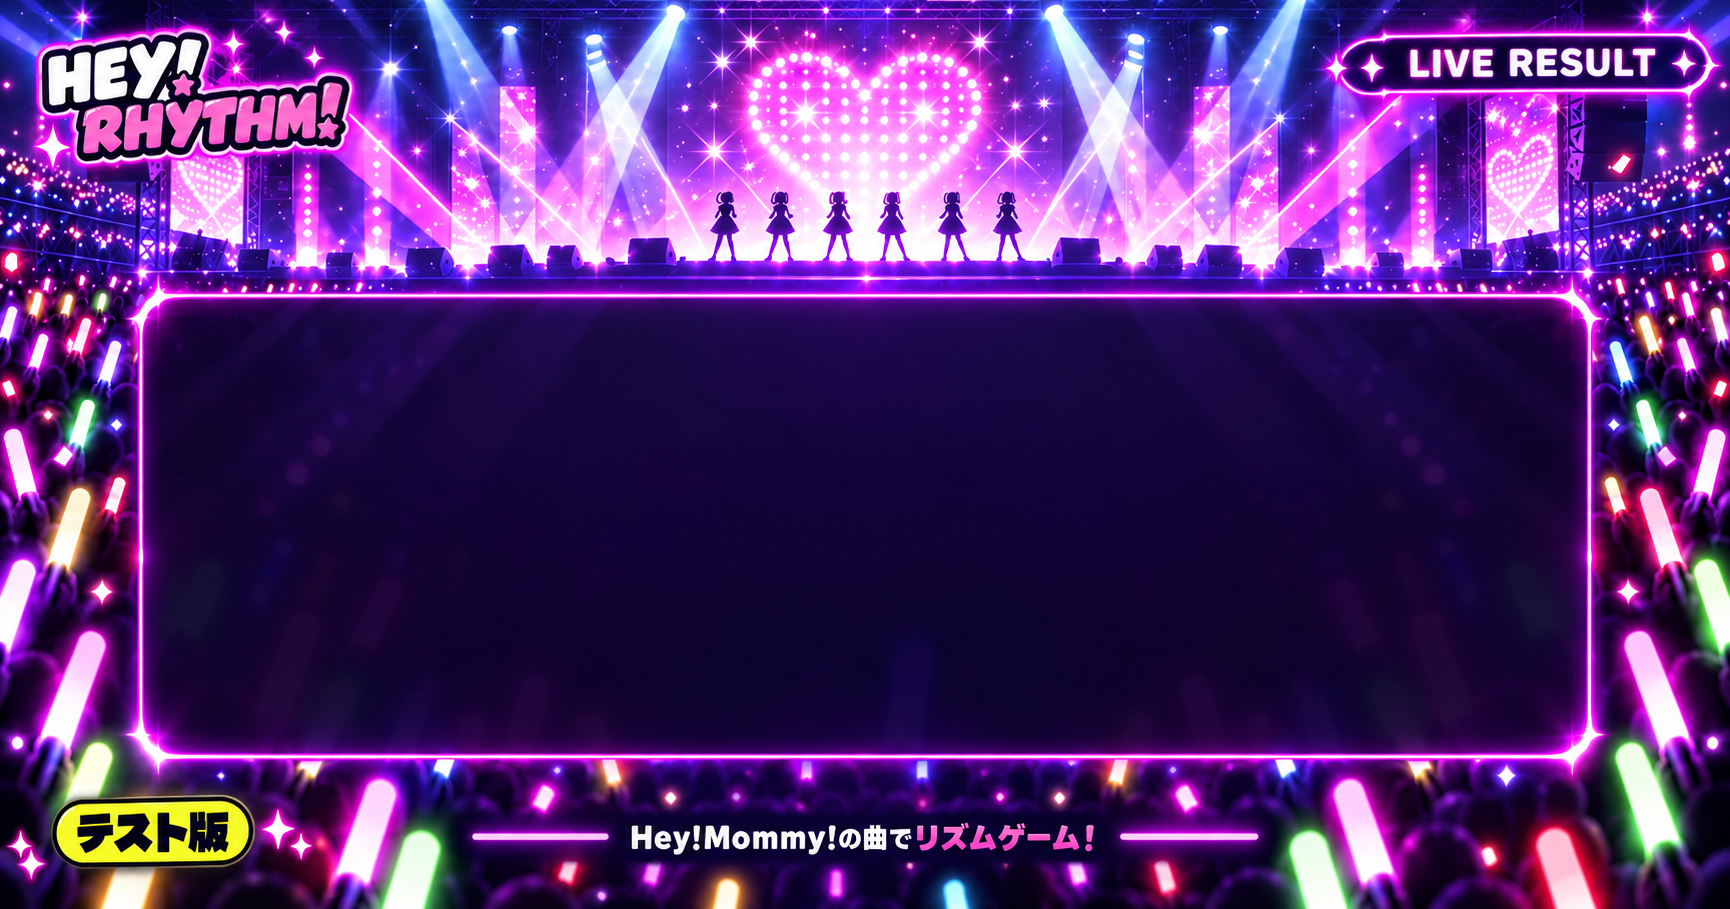
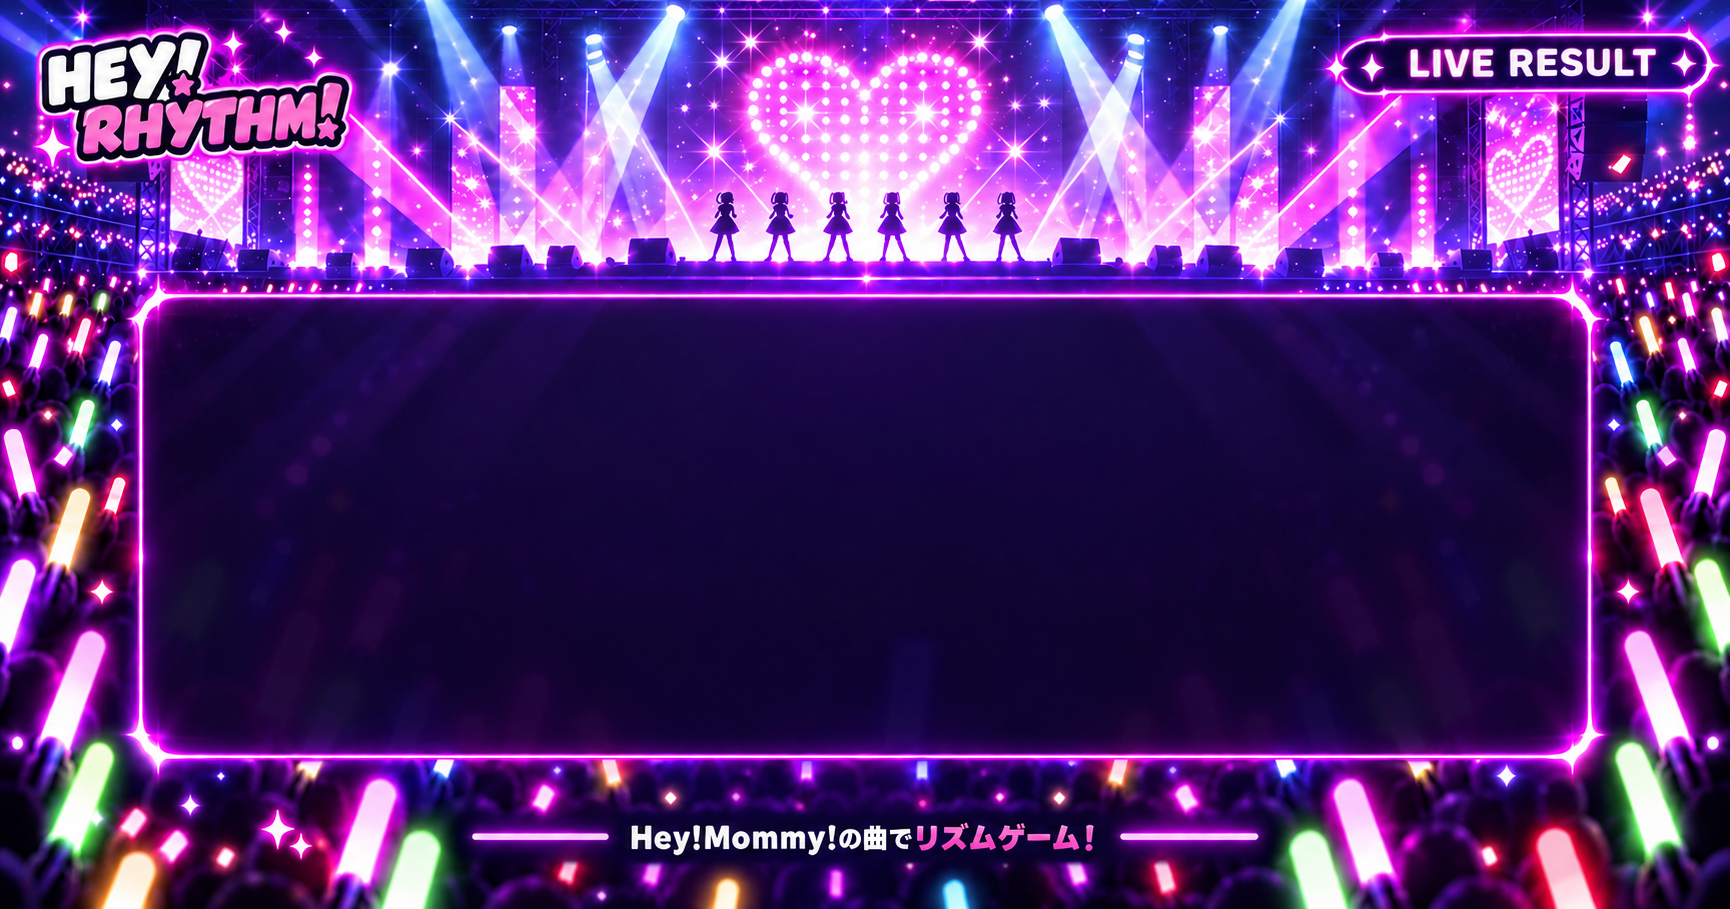
Remove development release labels from the site and social artwork

diff --git a/game.html b/game.html
@@ -8,24 +8,24 @@
     <meta name="viewport" content="width=device-width, initial-scale=1.0, viewport-fit=cover" />
     <meta name="referrer" content="strict-origin-when-cross-origin" />
     <meta name="theme-color" content="#11121e" />
-    <meta name="description" content="Hey!Mommy!の曲でリズムゲーム！ブラウザで遊べる非公式ファンメイドのテスト版です。" />
+    <meta name="description" content="Hey!Mommy!の曲でリズムゲーム！ブラウザで遊べる非公式ファンメイドのリズムゲームです。" />
     <link rel="canonical" href="https://hey.jpn.org/rhythm/game.html" />
     <meta property="og:type" content="website" />
     <meta property="og:site_name" content="HEY! RHYTHM!" />
-    <meta property="og:title" content="HEY! RHYTHM!｜テスト版" />
-    <meta property="og:description" content="Hey!Mommy!の曲でリズムゲーム！ブラウザで遊べる非公式ファンメイドのテスト版です。" />
+    <meta property="og:title" content="HEY! RHYTHM!" />
+    <meta property="og:description" content="Hey!Mommy!の曲でリズムゲーム！ブラウザで遊べる非公式ファンメイドのリズムゲームです。" />
     <meta property="og:url" content="https://hey.jpn.org/rhythm/game.html" />
-    <meta property="og:image" content="https://hey.jpn.org/rhythm/ogp-test-v1.png" />
+    <meta property="og:image" content="https://hey.jpn.org/rhythm/ogp-v2.png" />
     <meta property="og:image:type" content="image/png" />
     <meta property="og:image:width" content="1200" />
     <meta property="og:image:height" content="630" />
-    <meta property="og:image:alt" content="HEY! RHYTHM! テスト版。Hey!Mommy!の曲でリズムゲーム！と表示した、ペンライトが光るライブ会場。" />
+    <meta property="og:image:alt" content="HEY! RHYTHM!。Hey!Mommy!の曲でリズムゲーム！と表示した、ペンライトが光るライブ会場。" />
     <meta property="og:locale" content="ja_JP" />
     <meta name="twitter:card" content="summary_large_image" />
-    <meta name="twitter:title" content="HEY! RHYTHM!｜テスト版" />
-    <meta name="twitter:description" content="Hey!Mommy!の曲でリズムゲーム！ブラウザで遊べる非公式ファンメイドのテスト版です。" />
-    <meta name="twitter:image" content="https://hey.jpn.org/rhythm/ogp-test-v1.png" />
-    <meta name="twitter:image:alt" content="HEY! RHYTHM! テスト版。Hey!Mommy!の曲でリズムゲーム！と表示した、ペンライトが光るライブ会場。" />
+    <meta name="twitter:title" content="HEY! RHYTHM!" />
+    <meta name="twitter:description" content="Hey!Mommy!の曲でリズムゲーム！ブラウザで遊べる非公式ファンメイドのリズムゲームです。" />
+    <meta name="twitter:image" content="https://hey.jpn.org/rhythm/ogp-v2.png" />
+    <meta name="twitter:image:alt" content="HEY! RHYTHM!。Hey!Mommy!の曲でリズムゲーム！と表示した、ペンライトが光るライブ会場。" />
     <title>HEY! RHYTHM! — GAME</title>
   </head>
   <body class="game-page">
@@ -55,7 +55,7 @@
               <details class="playback-details"><summary>詳細 <span aria-hidden="true">⌄</span></summary><div class="playback-popover">
                 <div class="playback-info"><span class="status-dot" id="status-dot"></span><p id="player-status" role="status">YouTubeプレーヤーを読み込み中…</p><a href="https://www.youtube.com/watch?v=pJDfWpZ7CI4" target="_blank" rel="noopener">YouTube ↗</a></div>
                 <p id="chart-info">譜面を読み込み中…</p><p id="game-notice" class="game-notice" role="status">届くハートのバーを、同じ色のペンライトで受け止めよう。</p><button id="show-result" class="text-button" hidden>プレイ結果を見る</button>
-                <footer><span>FANMADE · UNOFFICIAL</span><p>Hey!Mommy! 非公式ファンメイド試作版<br />音声・映像はYouTube公式プレーヤーで再生します。</p></footer>
+                <footer><span>FANMADE · UNOFFICIAL</span><p>Hey!Mommy! 非公式ファンメイド<br />音声・映像はYouTube公式プレーヤーで再生します。</p></footer>
               </div></details>
             </div>
           </aside>

diff --git a/index.html b/index.html
@@ -7,24 +7,24 @@
   <link href="https://fonts.googleapis.com/css2?family=Dela+Gothic+One&amp;family=RocknRoll+One&amp;display=swap" rel="stylesheet" />
   <meta name="viewport" content="width=device-width, initial-scale=1.0, viewport-fit=cover" />
   <meta name="theme-color" content="#11121e" />
-  <meta name="description" content="Hey!Mommy!の曲でリズムゲーム！ブラウザで遊べる非公式ファンメイドのテスト版です。" />
+  <meta name="description" content="Hey!Mommy!の曲でリズムゲーム！ブラウザで遊べる非公式ファンメイドのリズムゲームです。" />
   <link rel="canonical" href="https://hey.jpn.org/rhythm/" />
   <meta property="og:type" content="website" />
   <meta property="og:site_name" content="HEY! RHYTHM!" />
-  <meta property="og:title" content="HEY! RHYTHM!｜テスト版" />
-  <meta property="og:description" content="Hey!Mommy!の曲でリズムゲーム！ブラウザで遊べる非公式ファンメイドのテスト版です。" />
+  <meta property="og:title" content="HEY! RHYTHM!" />
+  <meta property="og:description" content="Hey!Mommy!の曲でリズムゲーム！ブラウザで遊べる非公式ファンメイドのリズムゲームです。" />
   <meta property="og:url" content="https://hey.jpn.org/rhythm/" />
-  <meta property="og:image" content="https://hey.jpn.org/rhythm/ogp-test-v1.png" />
+  <meta property="og:image" content="https://hey.jpn.org/rhythm/ogp-v2.png" />
   <meta property="og:image:type" content="image/png" />
   <meta property="og:image:width" content="1200" />
   <meta property="og:image:height" content="630" />
-  <meta property="og:image:alt" content="HEY! RHYTHM! テスト版。Hey!Mommy!の曲でリズムゲーム！と表示した、ペンライトが光るライブ会場。" />
+  <meta property="og:image:alt" content="HEY! RHYTHM!。Hey!Mommy!の曲でリズムゲーム！と表示した、ペンライトが光るライブ会場。" />
   <meta property="og:locale" content="ja_JP" />
   <meta name="twitter:card" content="summary_large_image" />
-  <meta name="twitter:title" content="HEY! RHYTHM!｜テスト版" />
-  <meta name="twitter:description" content="Hey!Mommy!の曲でリズムゲーム！ブラウザで遊べる非公式ファンメイドのテスト版です。" />
-  <meta name="twitter:image" content="https://hey.jpn.org/rhythm/ogp-test-v1.png" />
-  <meta name="twitter:image:alt" content="HEY! RHYTHM! テスト版。Hey!Mommy!の曲でリズムゲーム！と表示した、ペンライトが光るライブ会場。" />
+  <meta name="twitter:title" content="HEY! RHYTHM!" />
+  <meta name="twitter:description" content="Hey!Mommy!の曲でリズムゲーム！ブラウザで遊べる非公式ファンメイドのリズムゲームです。" />
+  <meta name="twitter:image" content="https://hey.jpn.org/rhythm/ogp-v2.png" />
+  <meta name="twitter:image:alt" content="HEY! RHYTHM!。Hey!Mommy!の曲でリズムゲーム！と表示した、ペンライトが光るライブ会場。" />
   <title>曲を選ぶ — HEY! RHYTHM!</title>
 </head>
 <body class="menu-page">
@@ -39,7 +39,7 @@
       <p class="audio-guide"><strong>本体スピーカー・有線イヤホン推奨。</strong>Bluetoothなどの無線イヤホンは、タップ音が遅れて聞こえることがあるため非推奨です。</p>
       <section id="song-list" class="song-list" aria-label="楽曲一覧"></section>
       <p id="song-empty" class="empty-library" hidden>一致する曲がありません。検索する言葉を変えてみてください。</p>
-      <footer><span>FANMADE · UNOFFICIAL<br /><a href="./admin.html">管理者ログイン</a></span><p>Hey!Mommy! 非公式ファンメイド試作版<br />音声・映像はプレイ開始後にYouTube公式プレーヤーで再生します。</p></footer>
+      <footer><span>FANMADE · UNOFFICIAL<br /><a href="./admin.html">管理者ログイン</a></span><p>Hey!Mommy! 非公式ファンメイド<br />音声・映像はプレイ開始後にYouTube公式プレーヤーで再生します。</p></footer>
     </main>
   </div>
   <dialog id="tutorial" class="tutorial-dialog" aria-labelledby="tutorial-title" aria-describedby="tutorial-description">

diff --git a/src/menu.ts b/src/menu.ts
@@ -54,7 +54,7 @@ function render(): void {
     for (const color of LANE_COLORS) { const lane = node('i', ''); lane.style.setProperty('--color', color); lanes.append(lane); }
     artwork.append(lanes);
     const body = node('div', 'song-card-body');
-    body.append(node('p', 'song-artist', song.artist), node('h2', 'song-name', song.title), node('p', 'song-meta', bundled ? `6 LANES · ${__ADMIN__ ? `${song.chartId?.toUpperCase()} · ` : ''}${tempoLabel(bundled)} BPM · ${playableNotes(bundled.notes).length} NOTES` : __ADMIN__ ? `6 LANES · テスト譜面 ${song.bpm} BPM` : '譜面の準備中'));
+    body.append(node('p', 'song-artist', song.artist), node('h2', 'song-name', song.title), node('p', 'song-meta', bundled ? `6 LANES · ${__ADMIN__ ? `${song.chartId?.toUpperCase()} · ` : ''}${tempoLabel(bundled)} BPM · ${playableNotes(bundled.notes).length} NOTES` : __ADMIN__ ? `6 LANES · 練習譜面 ${song.bpm} BPM` : '譜面の準備中'));
     const levelLabel=node('label','difficulty-choice'), level=node('select','song-difficulty');level.id=`difficulty-${song.id}`;
     level.setAttribute('aria-label',`${song.title}の難易度`);
     for(const item of DIFFICULTIES){
@@ -69,7 +69,7 @@ function render(): void {
     if(!__ADMIN__)actions.classList.add('player-difficulty-actions');
     actions.append(levelLabel);
     if (bundled || __ADMIN__) {
-      const play = node('a', 'song-play', __ADMIN__ ? bundled ? '収録譜面で遊ぶ' : 'テスト譜面で遊ぶ' : 'プレイ');
+      const play = node('a', 'song-play', __ADMIN__ ? bundled ? '収録譜面で遊ぶ' : '練習譜面で遊ぶ' : 'プレイ');
       play.href = __ADMIN__ ? songUrl(song, 'game', bundled ? 'bundled' : 'test',difficulty) : songUrl(song, 'game',false,difficulty);
       actions.append(play);
     } else actions.append(node('span', 'song-unavailable', '準備中'));
@@ -83,7 +83,7 @@ function render(): void {
       });
       const edit = node('a', 'song-edit', '譜面を編集 →'); edit.href = songUrl(song, 'editor',false,difficulty);
       actions.append(custom, edit);
-      if (bundled) { const practice = node('a', 'song-practice', 'テスト譜面で遊ぶ'); practice.href = songUrl(song, 'game', 'test',difficulty); actions.append(practice); }
+      if (bundled) { const practice = node('a', 'song-practice', '練習譜面で遊ぶ'); practice.href = songUrl(song, 'game', 'test',difficulty); actions.append(practice); }
     }
     body.append(actions); card.append(artwork, body); list.append(card);
   });

diff --git a/tests/ranking/share.spec.ts b/tests/ranking/share.spec.ts
@@ -4,8 +4,10 @@ test('the shared result has static crawler metadata, an actual score PNG and a p
   const query=new URLSearchParams({song:'biscuit-case',difficulty:'normal',v:'4',score:'1160000',base:'960000',combo:'328',skipped:'0'});
   await page.goto(`./share.php?${query}`);
   await expect(page.locator('h1')).toHaveText('最高なLIVE！');
+  expect(await page.locator('body').innerText()).not.toMatch(/テスト版|試作|プロトタイプ/);
   await expect(page.getByRole('link',{name:'この曲で遊ぶ'})).toHaveAttribute('href','./game.html?song=biscuit-case&difficulty=normal');
-  expect(await page.locator('meta[property="og:image"]').getAttribute('content')).toContain('https://hey.jpn.org/rhythm/share-image.php?');
+  const imageUrl=new URL((await page.locator('meta[property="og:image"]').getAttribute('content'))!);
+  expect(imageUrl.searchParams.get('art')).toBe('2');
   expect(await page.locator('img').evaluate((img:HTMLImageElement)=>({loaded:img.complete,width:img.naturalWidth,height:img.naturalHeight}))).toEqual({loaded:true,width:1200,height:630});
   expect(await page.evaluate(()=>document.documentElement.scrollWidth<=innerWidth)).toBe(true);
   if(test.info().project.name==='mobile-touch')await page.screenshot({path:test.info().outputPath('result-share.png')});

diff --git a/tests/sakura/deployment.spec.ts b/tests/sakura/deployment.spec.ts
@@ -44,10 +44,11 @@ test('static metadata and OGP image use the Sakura address without requiring Jav
     const html=await response.text(),canonical=file==='index.html'?'https://hey.jpn.org/rhythm/':`https://hey.jpn.org/rhythm/${file}`;
     expect(html).toContain(`<link rel="canonical" href="${canonical}"`);
     expect(html).toContain(`<meta property="og:url" content="${canonical}"`);
-    expect(html).toContain('https://hey.jpn.org/rhythm/ogp-test-v1.png');
+    expect(html).toContain('https://hey.jpn.org/rhythm/ogp-v2.png');
+    expect(html).not.toMatch(/テスト版|試作|プロトタイプ/);
     expect(html).not.toContain('tkisland.github.io');expect(html).not.toContain('/src/');
   }
-  const image=await request.get('ogp-test-v1.png');expect(image.status()).toBe(200);
+  const image=await request.get('ogp-v2.png');expect(image.status()).toBe(200);
   expect(image.headers()['content-type']).toContain('image/png');
   // Local-only editing pages must not be included in the FTP upload.
   expect((await request.get('editor.html')).status()).toBe(404);

diff --git a/tests/browser/bundled-chart.spec.ts b/tests/browser/bundled-chart.spec.ts
@@ -40,7 +40,7 @@ test('bundled, practice and saved charts coexist without changing existing draft
   await page.goto('/game.html'); await expect(page.locator('#restart')).toBeEnabled();
   await expect(page.locator('#chart-source')).toHaveValue('bundled'); await page.locator('#settings-toggle').click();
   await expect(page.locator('#bpm')).toBeDisabled(); await expect(page.locator('#start-time')).toBeDisabled();
-  await page.locator('#chart-source').selectOption('test'); await expect(page.locator('#chart-info')).toContainText('TEST CHART · 150 BPM · 14.0秒');
+  await page.locator('#chart-source').selectOption('test'); await expect(page.locator('#chart-info')).toContainText('PRACTICE CHART · 150 BPM · 14.0秒');
   await page.reload(); await expect(page.locator('#chart-source')).toHaveValue('test');
   await page.locator('#settings-toggle').click(); await page.locator('#chart-source').selectOption('custom');
   await expect(page.locator('#chart-info')).toContainText('EDITOR CHART · 120 BPM · 10.0秒〜 · 1 NOTES');

diff --git a/tests/public/player-only.spec.ts b/tests/public/player-only.spec.ts
@@ -21,7 +21,7 @@ test('public selection offers only the published chart and loads no video', asyn
   await expect(page.locator('.song-card').getByText('SUPER MOMMY GIRLS',{exact:true})).toHaveCount(1);
   expect((await page.locator('[data-song="super-mommy-girls"]').boundingBox())!.height).toBeLessThan(180);
   await expect(page.locator('.song-edit,.song-saved,.song-practice,.saved-summary,.admin-notice')).toHaveCount(0);
-  expect(await page.locator('body').innerText()).not.toMatch(/エディター|編集|保存譜面|テスト譜面|SMG00[234]/);
+  expect(await page.locator('body').innerText()).not.toMatch(/エディター|編集|保存譜面|練習譜面|SMG00[234]/);
   expect(requests).toEqual([]);
   await page.locator('#song-search').fill('missing'); await expect(page.locator('#song-empty')).toBeVisible();
   await page.locator('#song-search').fill('mommy'); await expect(page.locator('.song-card')).toHaveCount(2);

diff --git a/src/main.ts b/src/main.ts
@@ -355,7 +355,7 @@ function showError(message: string): void {
   element<HTMLButtonElement>('play-start').disabled = true;
 }
 function updateChartInfo(): void {
-  element('chart-info').textContent = __ADMIN__ ? `${source === 'custom' ? 'EDITOR CHART' : source === 'bundled' ? 'BUNDLED CHART' : 'TEST CHART'} · ${tempoLabel(engine.chart)} BPM · ${engine.chart.startTime.toFixed(source === 'bundled' ? 2 : 1)}秒〜 · ${engine.notes.length} NOTES` : `${tempoLabel(engine.chart)} BPM · ${engine.notes.length} NOTES`;
+  element('chart-info').textContent = __ADMIN__ ? `${source === 'custom' ? 'EDITOR CHART' : source === 'bundled' ? 'BUNDLED CHART' : 'PRACTICE CHART'} · ${tempoLabel(engine.chart)} BPM · ${engine.chart.startTime.toFixed(source === 'bundled' ? 2 : 1)}秒〜 · ${engine.notes.length} NOTES` : `${tempoLabel(engine.chart)} BPM · ${engine.notes.length} NOTES`;
 }
 
 const disposePlayer = createYouTubePlayer({

diff --git a/tests/result-share.test.ts b/tests/result-share.test.ts
@@ -8,7 +8,7 @@ it('shares the selected song, difficulty and formatted result with a public Saku
   expect(url.searchParams.get('text')).toBe('レスが届いたLIVE！\nビスケットケース / むずかしい\nSCORE：652,000\nMAX COMBO：328');
   const shared=new URL(url.searchParams.get('url')!);
   expect(shared.origin+shared.pathname).toBe('https://hey.jpn.org/rhythm/share.php');
-  expect(Object.fromEntries(shared.searchParams)).toEqual({song:'biscuit-case',difficulty:'hard',v:'4',score:'652000',base:'600000',combo:'328',skipped:'0'});
+  expect(Object.fromEntries(shared.searchParams)).toEqual({song:'biscuit-case',difficulty:'hard',v:'4',art:'2',score:'652000',base:'600000',combo:'328',skipped:'0'});
   expect(url.searchParams.get('hashtags')).toBe('HeyMommy,HEY_RHYTHM');
 });
 it('labels skipped notes and safely encodes Japanese and special characters without mixing query parameters',()=>{

diff --git a/src/result-share.ts b/src/result-share.ts
@@ -20,7 +20,7 @@ export function resultShareUrl(song:Song,difficulty:Difficulty,result:{score:num
   intent.searchParams.set('text',text.join('\n'));
   // Build a public play link independently from the current preview/debug URL.
   const page=new URL('share.php',publicSite);
-  page.search=new URLSearchParams({song:song.id,difficulty,v:String(SCORE_RULES_VERSION),score:String(result.score),base:String(result.baseScore),combo:String(result.maxCombo),skipped:String(result.skipped)}).toString();
+  page.search=new URLSearchParams({song:song.id,difficulty,v:String(SCORE_RULES_VERSION),art:'2',score:String(result.score),base:String(result.baseScore),combo:String(result.maxCombo),skipped:String(result.skipped)}).toString();
   intent.searchParams.set('url',page.href);
   intent.searchParams.set('hashtags','HeyMommy,HEY_RHYTHM');
   return intent.href;

diff --git a/tests/browser/editor.spec.ts b/tests/browser/editor.spec.ts
@@ -101,7 +101,7 @@ test('plays the edited chart and keeps it on restart, then switches back to prac
   await page.locator('#restart').click(); await expect(page.locator('#chart-info')).toContainText('2 NOTES');
   expect(await page.evaluate(() => (window as any).testVideo.getCurrentTime())).toBeLessThan(8);
   await page.locator('#settings-toggle').click(); await expect(page.locator('#bpm')).toBeDisabled();
-  await page.locator('#chart-source').selectOption('test'); await expect(page.locator('#chart-info')).toContainText('TEST CHART');
+  await page.locator('#chart-source').selectOption('test'); await expect(page.locator('#chart-info')).toContainText('PRACTICE CHART');
   await expect(page.locator('#bpm')).toBeEnabled();
 });
 

diff --git a/server/share-common.php b/server/share-common.php
@@ -12,8 +12,9 @@ function rs_message(int $base): string {
 function rs_result(array $query): array {
     $catalog=rh_catalog();$song=$query['song'] ?? '';$difficulty=$query['difficulty'] ?? '';
     if (!is_string($song) || !isset($catalog['songs'][$song]) || !in_array($difficulty,['easy','normal','hard'],true)) rh_error(400,'invalid_share','共有する曲を確認してください。');
+    $query['art'] ??='2'; // Old links remain valid; new artwork gets a separate card-cache URL.
     $result=['song'=>$song,'difficulty'=>$difficulty];
-    foreach (['v'=>[4,4],'score'=>[0,2147483647],'base'=>[0,1000000],'combo'=>[0,5000],'skipped'=>[0,5000]] as $name=>[$min,$max]) {
+    foreach (['v'=>[4,4],'art'=>[2,2],'score'=>[0,2147483647],'base'=>[0,1000000],'combo'=>[0,5000],'skipped'=>[0,5000]] as $name=>[$min,$max]) {
         $value=$query[$name] ?? null;
         if (!is_string($value) || !preg_match('/^(0|[1-9][0-9]{0,9})$/D',$value) || (int)$value<$min || (int)$value>$max) rh_error(400,'invalid_share','共有する結果を確認してください。');
         $result[$name]=(int)$value;
@@ -22,7 +23,7 @@ function rs_result(array $query): array {
     return $result+['title'=>$catalog['songs'][$song]['title'],'level'=>['easy'=>'かんたん','normal'=>'ふつう','hard'=>'むずかしい'][$difficulty],'message'=>rs_message($result['base'])];
 }
 function rs_query(array $result): string {
-    return http_build_query(array_intersect_key($result,array_flip(['song','difficulty','v','score','base','combo','skipped'])),'','&',PHP_QUERY_RFC3986);
+    return http_build_query(array_intersect_key($result,array_flip(['song','difficulty','v','art','score','base','combo','skipped'])),'','&',PHP_QUERY_RFC3986);
 }
 function rs_escape(string $value): string { return htmlspecialchars($value,ENT_QUOTES|ENT_SUBSTITUTE,'UTF-8'); }
 function rs_failure(Throwable $error): never {
